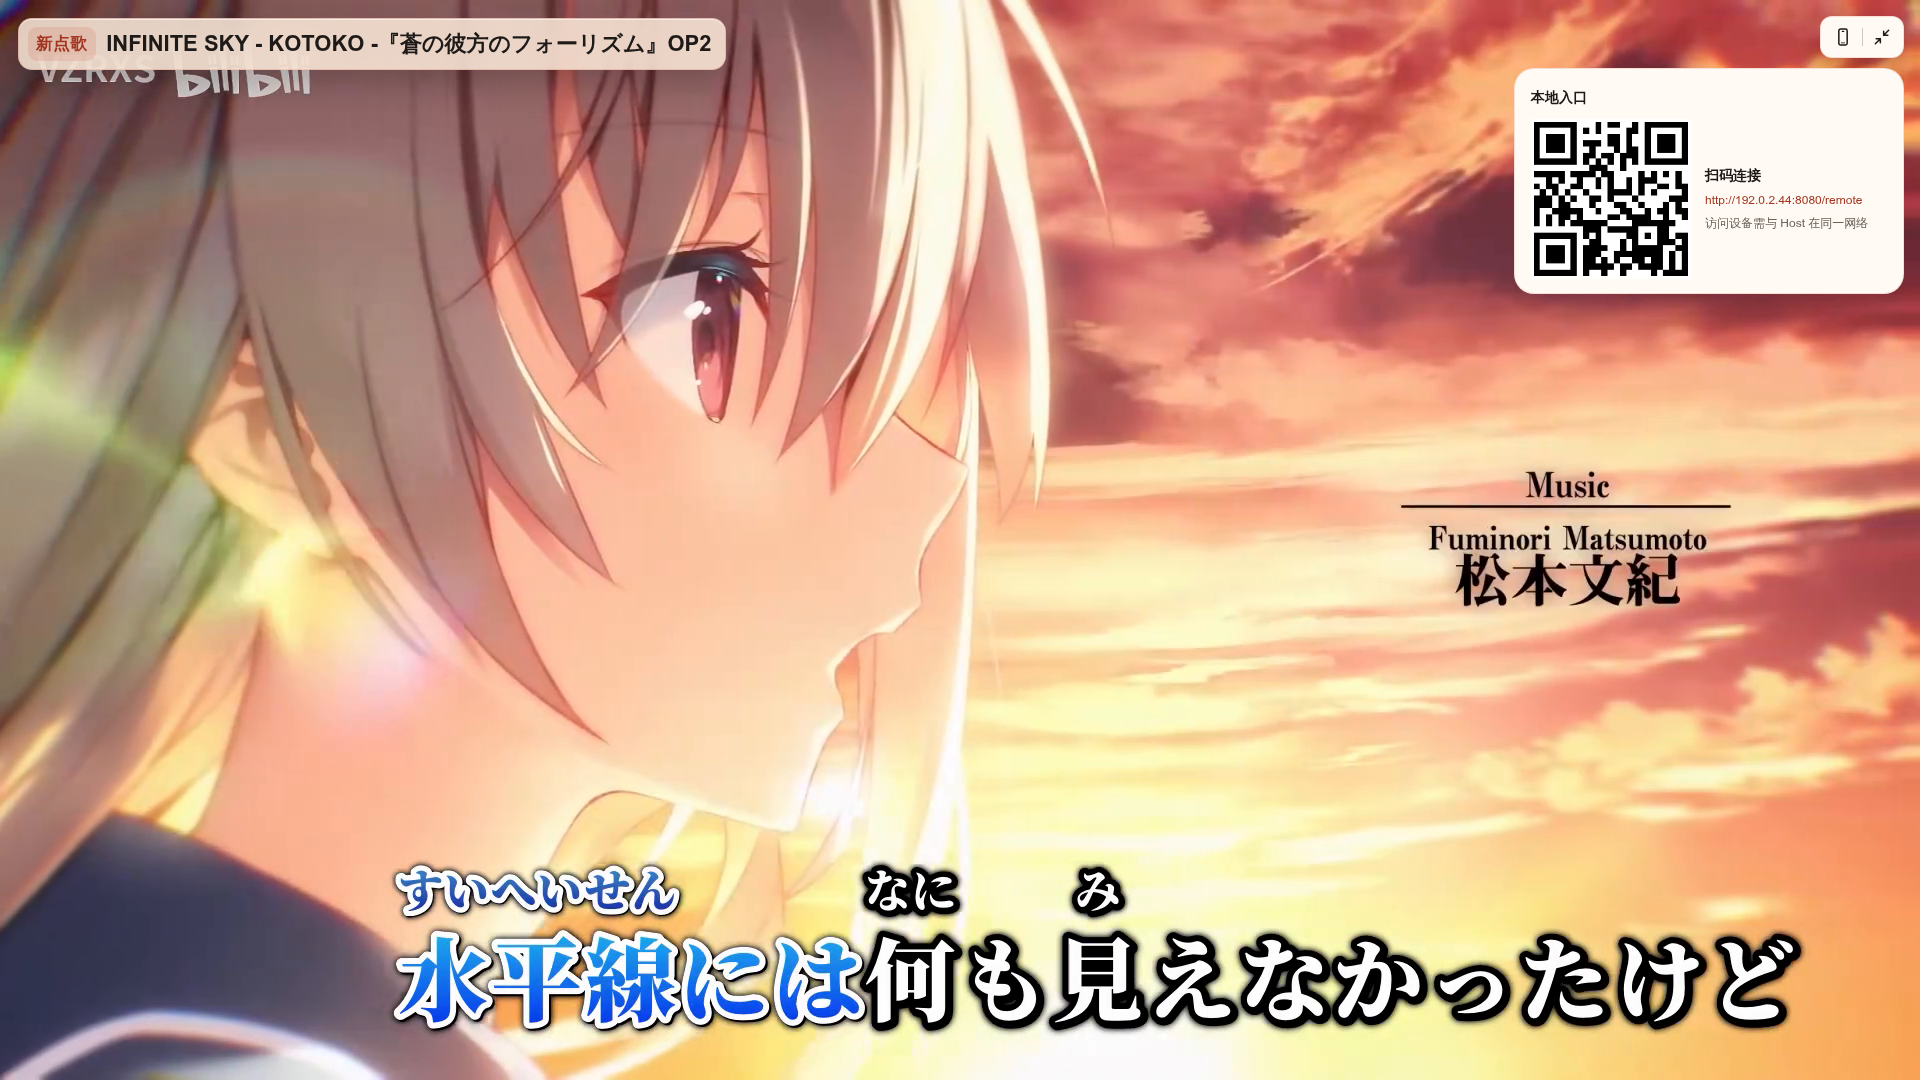
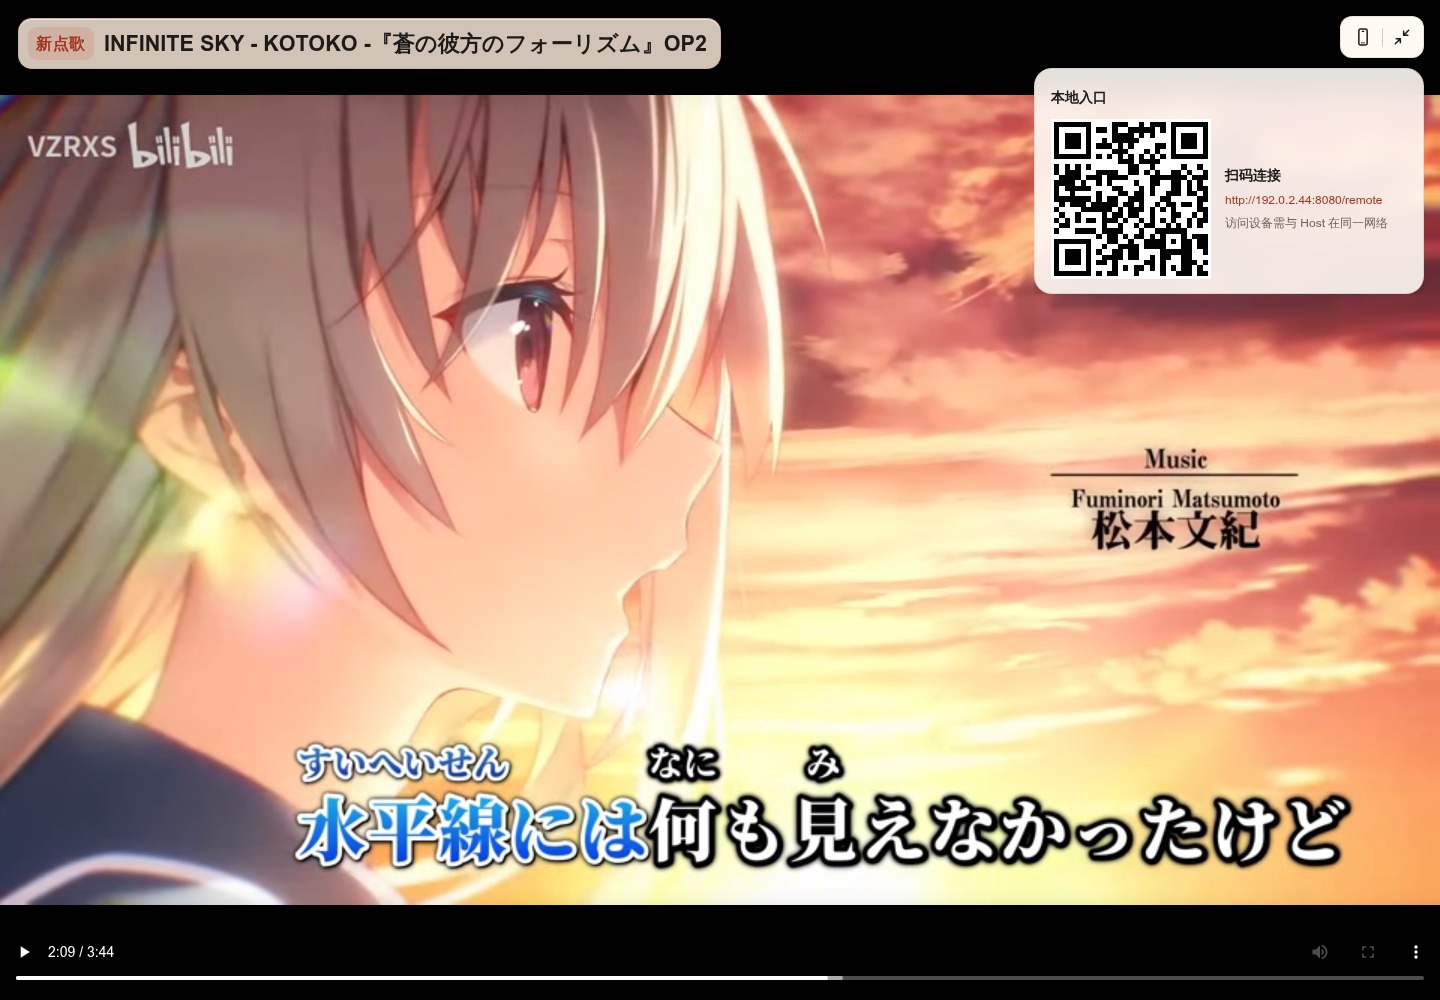
docs: refresh host and remote UI screenshots

diff --git a/README.md b/README.md
@@ -6,6 +6,8 @@
 
 架构演进与后续计划见 [版本路线图](docs/version-roadmap.md)。
 
+主界面、播放、搜索、详情、评分与设置截图已于 2026-09-28 按当前 `dev` 界面更新，包含 v0.8.0-preview.1 以来的 UI 调整。本次重拍的移动端页面采用 375px 逻辑宽度；曲目、用户和播放状态为示例。
+
 <p align="center">
   <img src="images/host.png" alt="Host 界面" width="900"><br>
   <sub>Host 界面</sub>
@@ -23,7 +25,7 @@
     </td>
     <td align="center" valign="top" width="33%">
       <img src="images/remote_control_panel.png" alt="Remote 播放抽屉" width="170"><br>
-      <sub>播放抽屉</sub>
+      <sub>播放抽屉：音轨与播放控制</sub>
     </td>
   </tr>
 </table>
@@ -36,7 +38,7 @@
     </td>
     <td align="center" valign="top" width="50%">
       <img src="images/song_detail.png" alt="Remote 歌曲详情页" width="220"><br>
-      <sub>歌曲详情</sub>
+      <sub>歌曲详情：稿件信息与点歌</sub>
     </td>
   </tr>
 </table>
@@ -110,8 +112,8 @@
 - 在远程搜索和历史结果中展示评分人数与平均分
 
 <p align="center">
-  <img src="images/rating_remote.png" alt="Remote 竖屏视频打分窗口" width="320"><br>
-  <sub>视频打分窗口</sub>
+  <img src="images/rating_remote.png" alt="Remote 视频打分窗口，示例选择四星" width="320"><br>
+  <sub>视频打分：选择星级后确认评分</sub>
 </p>
 
 ### 控制、设置与界面体验
